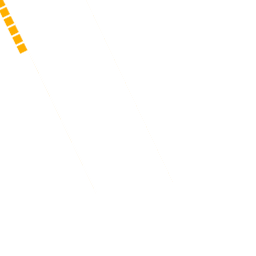
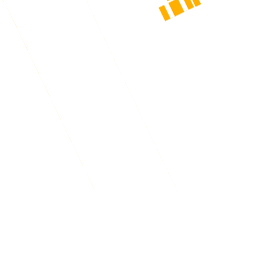
обновил тайлы карты, добавил пункты в левое меню (инстаграм + разработчики), пофиксил баги в уведомлениях и новостях

Changed region(s): [[0.0, 0.0, 0.125, 0.2188], [0.625, 0.0, 0.7812, 0.0938]]

diff --git a/src/assets/js/svg.js b/src/assets/js/svg.js
@@ -472,6 +472,73 @@
     '-.5-1-1-1zM26.5 40.2h-8.8c-.6 0-1 .4-1 1s.4 1 1 1h8.8c.6 0 1-.4 1-1s-.5-1-1-1z"/><path d="M12.7.4L8 6.2l-2-2c-.4-.4-1'+
     '-.4-1.4 0-.4.4-.4 1 0 1.4l2.8 2.8c.2.2.4.3.7.3h.1c.3 0 .5-.1.7-.4l5.4-6.7c.3-.4.3-1.1-.1-1.4-.5-.3-1.1-.3-1.5.2z"/></'+
     'g></symbol>'+
+    '<symbol viewBox="0 0 358.3 186" id="icon_ugraweb"><circ'+
+    'le fill="#059146" cx="265.3" cy="93" r="93"/><g fill="#FFF"><path d="M15.9 51.7c.4.2.6.4.6.8 0 .3-.1.9-.4 1.5-.2.3-.3'+
+    '.6-.5.8-.2.2-.3.3-.5.4-.2.1-.3.1-.5.1s-.3-.1-.5-.2L.8 48.3c-.3-.1-.5-.3-.6-.5-.1-.3-.2-.6-.2-1.1s.1-.8.2-1.1c.1-.2.3-'+
+    '.4.6-.5l13.4-6.9c.2-.1.3-.1.5-.2.2 0 .3 0 .5.1.1.1.3.2.5.4s.3.5.5.8c.3.7.5 1.2.4 1.5 0 .3-.3.6-.6.8l-10 5 9.9 5.1zM53'+
+    '.7 57.2c-1.1 0-2.1-.2-2.8-.5-.8-.4-1.4-.9-1.8-1.5-.5-.7-.8-1.5-1.1-2.4-.2-.9-.4-2-.5-3.2h-1.6v7.1h-4.2V39.1h4.2v6.6h1'+
+    '.6c.1-1.1.3-2.1.6-3 .3-.9.6-1.6 1.1-2.2.5-.6 1.1-1.1 1.8-1.4.7-.3 1.6-.5 2.7-.5 1.2 0 2.3.2 3.1.7.8.4 1.4 1.1 1.9 1.9'+
+    '.5.8.8 1.8 1 2.9s.3 2.4.3 3.8c0 1.5-.1 2.8-.3 3.9-.2 1.1-.6 2.1-1.1 2.9s-1.1 1.4-1.9 1.8c-.8.5-1.8.7-3 .7m-2.2-9.3c0 '+
+    '1.7.2 3 .5 4 .3.9.9 1.4 1.8 1.4.7 0 1.2-.4 1.5-1.2.3-.8.4-2.2.4-4.2 0-1.8-.1-3.2-.4-4.1-.3-.9-.8-1.3-1.7-1.3-.7 0-1.3'+
+    '.4-1.6 1.2-.3.8-.5 2.2-.5 4.2M63.2 52.8h2.4V43h-2.4v-3.9h16.9v7h-3.9V43h-5.9v9.8h5.9v3.9h-13zM83.4 47.9c0-1.5.2-2.8.7'+
+    '-3.9.4-1.1 1.1-2.1 1.9-2.9.8-.8 1.8-1.4 2.9-1.8 1.1-.4 2.4-.6 3.8-.6 1.5 0 2.8.2 4 .7 1.2.4 2.1 1.1 2.9 1.9.8.8 1.4 1'+
+    '.8 1.8 2.9.4 1.1.6 2.4.6 3.8 0 1.5-.2 2.8-.7 3.9s-1.1 2.1-1.9 2.9-1.8 1.4-2.9 1.8c-1.1.4-2.4.6-3.8.6-1.5 0-2.8-.2-4-.'+
+    '7-1.2-.4-2.1-1.1-2.9-1.9-.8-.8-1.4-1.8-1.8-2.9-.4-1.2-.6-2.4-.6-3.8m4.8 0c0 .8.1 1.5.3 2.1.2.7.5 1.2.9 1.7s.9.9 1.4 1'+
+    '.1c.6.3 1.2.4 1.9.4 1.4 0 2.5-.4 3.3-1.3.9-.9 1.3-2.2 1.3-4.1 0-1.6-.4-2.9-1.2-3.9-.8-1-1.9-1.5-3.4-1.5-.7 0-1.3.1-1.'+
+    '8.3s-1 .5-1.5 1c-.4.4-.7 1-1 1.7-.1.7-.2 1.5-.2 2.5M103.3 39.1h6l.5 2.1h.1c1.2-1.7 3.2-2.6 5.9-2.6 1.1 0 2.1.2 3 .5.9'+
+    '.3 1.7.9 2.3 1.6.6.7 1.1 1.6 1.5 2.7.3 1.1.5 2.4.5 4 0 1.5-.2 2.8-.6 4.1-.4 1.2-1 2.2-1.7 3.1-.7.8-1.7 1.5-2.7 1.9-1.'+
+    '1.4-2.3.7-3.7.7-.7 0-1.4-.1-2.1-.2-.7-.1-1.3-.3-1.8-.5v7.2h-4.6V43h-2.6v-3.9zm11.2 3.4c-.9 0-1.7.2-2.4.7-.7.4-1.2 1.1'+
+    '-1.5 2v7.3c.3.3.8.5 1.4.6.6.2 1.2.2 1.9.2s1.3-.1 1.8-.3c.6-.2 1.1-.6 1.5-1.1.4-.5.8-1.1 1-1.9.2-.7.4-1.7.4-2.7 0-1.5-'+
+    '.4-2.7-1.1-3.6-.9-.8-1.9-1.2-3-1.2M143.5 55c-1 .7-2.1 1.3-3.4 1.6-1.3.4-2.6.5-4 .5-1.5 0-2.9-.2-4.1-.7-1.2-.4-2.2-1.1'+
+    '-3-1.9-.8-.8-1.4-1.8-1.8-2.9-.4-1.1-.6-2.4-.6-3.8 0-1.5.2-2.8.7-3.9.5-1.1 1.2-2.1 2.1-2.9s1.9-1.4 3.1-1.8c1.2-.4 2.5-'+
+    '.6 3.9-.6 1.3 0 2.5.2 3.7.5 1.1.3 2 .6 2.6.9v6.2h-3.9V43c-.7-.2-1.5-.2-2.2-.2-.7 0-1.3.1-1.9.3-.6.2-1.2.5-1.7.9s-.9 1'+
+    '-1.2 1.6c-.3.7-.5 1.4-.5 2.4 0 .7.1 1.4.4 2.1.3.6.6 1.2 1.1 1.7.5.5 1 .8 1.7 1.1.7.3 1.5.4 2.3.4 1.3 0 2.4-.2 3.3-.6s'+
+    '1.5-.7 1.9-1l1.5 3.3zM155 49.8h-2.3v6.9h-4.6V39.1h4.6v7.1h1.8l5.8-7.1h5.2l-7 8.2 4.3 5.5h3.1v3.9h-5.3zM180.7 48.7l.2-'+
+    '2.5h-.1l-8.5 10.5h-3.5V39.1h4.5v8.4l-.2 2.4h.2l8.4-10.8h3.6v17.6h-4.6zM206.3 54.8c-.3.3-.7.6-1.2.8-.5.3-1 .5-1.7.8s-1'+
+    '.4.4-2.1.6c-.8.1-1.6.2-2.5.2-1.5 0-2.8-.2-4-.6-1.2-.4-2.2-1-3-1.8-.8-.8-1.4-1.8-1.9-2.9-.4-1.1-.6-2.4-.6-3.9s.2-2.9.7'+
+    '-4.1c.5-1.2 1.2-2.1 2-2.9.9-.8 1.9-1.4 3-1.7 1.1-.4 2.4-.6 3.7-.6.9 0 1.8.1 2.8.4.9.2 1.8.6 2.6 1.2s1.4 1.3 1.9 2.3c.'+
+    '5 1 .8 2.2.8 3.7 0 1-.1 2.1-.4 3.3h-12.6c0 .7.2 1.4.5 1.9s.7.9 1.2 1.3c.5.3 1 .6 1.7.7.6.2 1.3.2 2 .2 1.4 0 2.6-.2 3.'+
+    '5-.5.9-.3 1.6-.7 2.2-1.2l1.4 2.8zm-7.5-12.5c-.6 0-1.2.1-1.7.3-.5.2-1 .4-1.5.7-.4.3-.8.7-1.1 1.2s-.4 1-.5 1.6h8.6c0-1.'+
+    '2-.3-2.1-1-2.8-.5-.7-1.5-1-2.8-1M117.5 90.8l.2-2.5h-.2l-8.4 10.5h-3.6V81.3h4.6v8.3l-.2 2.4h.1l8.5-10.7h3.5v17.5h-4.5z'+
+    'M138.6 91.9h-7.5v6.9h-4.5V81.3h4.5v6.6h7.5v-6.6h4.6v17.5h-4.6zM149 95h4.6v-9.7h-2.8v3h-3.9v-7H165v7h-3.9v-3h-2.8V95h4'+
+    '.6v3.8H149zM185.2 97c-.3.3-.7.6-1.2.8-.5.3-1 .5-1.7.8-.6.2-1.4.4-2.1.6-.8.1-1.6.2-2.5.2-1.5 0-2.8-.2-4-.6-1.2-.4-2.2-'+
+    '1-3-1.8-.8-.8-1.4-1.8-1.9-2.9-.4-1.1-.6-2.4-.6-3.9s.2-2.9.7-4.1c.5-1.2 1.2-2.1 2-2.9.9-.8 1.9-1.4 3-1.7 1.1-.4 2.4-.6'+
+    ' 3.7-.6.9 0 1.8.1 2.8.4.9.2 1.8.6 2.6 1.2s1.4 1.3 1.9 2.3c.5 1 .8 2.2.8 3.7 0 1-.1 2.1-.4 3.3h-12.6c0 .7.2 1.4.5 1.9s'+
+    '.7.9 1.2 1.3c.5.3 1 .6 1.7.7.6.2 1.3.2 2 .2 1.4 0 2.6-.2 3.5-.5.9-.3 1.6-.7 2.2-1.2l1.4 2.8zm-7.6-12.6c-.6 0-1.2.1-1.'+
+    '7.3-.5.2-1 .4-1.5.7-.4.3-.8.7-1.1 1.2-.3.5-.4 1-.5 1.6h8.6c0-1.2-.3-2.1-1-2.8-.5-.6-1.4-1-2.8-1M187.5 81.3h6l.5 2.1h.'+
+    '1c1.2-1.7 3.2-2.6 5.9-2.6 1.1 0 2.1.2 3 .5.9.3 1.7.9 2.3 1.6.6.7 1.1 1.6 1.5 2.7.3 1.1.5 2.4.5 4 0 1.5-.2 2.8-.6 4.1-'+
+    '.4 1.2-1 2.2-1.7 3.1-.8.8-1.7 1.5-2.7 1.9s-2.3.7-3.7.7c-.7 0-1.4-.1-2.1-.2-.7-.1-1.3-.3-1.8-.5v7.2h-4.6V85.1h-2.6v-3.'+
+    '8zm11.2 3.3c-.9 0-1.7.2-2.4.7-.7.4-1.2 1.1-1.5 2v7.3c.3.3.8.5 1.4.6.6.2 1.2.2 1.9.2s1.3-.1 1.8-.3c.6-.2 1.1-.6 1.5-1.'+
+    '1.4-.5.7-1.1 1-1.9.2-.7.4-1.7.4-2.7 0-1.5-.4-2.7-1.1-3.6-.9-.7-1.8-1.2-3-1.2M222.9 91.9h-7.5v6.9h-4.5V81.3h4.5v6.6h7.'+
+    '5v-6.6h4.6v17.5h-4.6zM248.5 97c-.3.3-.7.6-1.2.8-.5.3-1 .5-1.7.8-.6.2-1.4.4-2.1.6-.8.1-1.6.2-2.5.2-1.5 0-2.8-.2-4-.6-1'+
+    '.2-.4-2.2-1-3-1.8-.8-.8-1.4-1.8-1.9-2.9-.4-1.1-.6-2.4-.6-3.9s.2-2.9.7-4.1c.5-1.2 1.2-2.1 2-2.9.9-.8 1.9-1.4 3-1.7 1.1'+
+    '-.4 2.4-.6 3.7-.6.9 0 1.8.1 2.8.4.9.2 1.8.6 2.6 1.2s1.4 1.3 1.9 2.3c.5 1 .8 2.2.8 3.7 0 1-.1 2.1-.4 3.3H236c0 .7.2 1.'+
+    '4.5 1.9s.7.9 1.2 1.3c.5.3 1 .6 1.7.7.6.2 1.3.2 2 .2 1.4 0 2.6-.2 3.5-.5.9-.3 1.6-.7 2.2-1.2l1.4 2.8zm-7.6-12.6c-.6 0-'+
+    '1.2.1-1.7.3-.5.2-1 .4-1.5.7-.4.3-.8.7-1.1 1.2-.3.5-.4 1-.5 1.6h8.6c0-1.2-.3-2.1-1-2.8-.5-.6-1.5-1-2.8-1M254.4 95h4.6v'+
+    '-9.7h-2.8v3h-3.9v-7h18v7h-3.8v-3h-2.8V95h4.5v3.8h-13.8zM103.2 123.4h6l.5 2.1h.1c1.2-1.7 3.2-2.6 5.9-2.6 1.1 0 2.1.2 3'+
+    ' .5.9.3 1.7.9 2.3 1.6.6.7 1.1 1.6 1.5 2.7.3 1.1.5 2.4.5 4 0 1.5-.2 2.8-.6 4.1-.4 1.2-1 2.2-1.7 3.1-.7.8-1.7 1.5-2.7 1'+
+    '.9-1.1.4-2.3.7-3.7.7-.7 0-1.4-.1-2.1-.2-.7-.1-1.3-.3-1.8-.5v7.2h-4.6v-20.7h-2.6v-3.9zm11.2 3.4c-.9 0-1.7.2-2.4.7s-1.2'+
+    ' 1.1-1.5 2v7.3c.3.3.8.5 1.4.6.6.2 1.2.2 1.9.2s1.3-.1 1.8-.3c.6-.2 1.1-.6 1.5-1.1.4-.5.8-1.1 1-1.9.2-.7.4-1.7.4-2.7 0-'+
+    '1.5-.4-2.7-1.1-3.6-.9-.8-1.8-1.2-3-1.2M143.1 139.1c-.3.3-.7.6-1.2.8-.5.3-1 .5-1.7.8s-1.4.4-2.1.6c-.8.1-1.6.2-2.5.2-1.'+
+    '5 0-2.8-.2-4-.6-1.2-.4-2.2-1-3-1.8-.8-.8-1.4-1.8-1.9-2.9s-.6-2.4-.6-3.9.2-2.9.7-4.1c.5-1.2 1.2-2.1 2-2.9.9-.8 1.9-1.4'+
+    ' 3-1.7 1.1-.4 2.4-.6 3.7-.6.9 0 1.8.1 2.8.4.9.2 1.8.6 2.6 1.2s1.4 1.3 1.9 2.3c.5 1 .8 2.2.8 3.7 0 1-.1 2.1-.4 3.3h-12'+
+    '.6c0 .7.2 1.4.5 1.9s.7.9 1.2 1.3c.5.3 1 .6 1.7.7.6.2 1.3.2 2 .2 1.4 0 2.6-.2 3.5-.5.9-.3 1.6-.7 2.2-1.2l1.4 2.8zm-7.6'+
+    '-12.5c-.6 0-1.2.1-1.7.3-.5.2-1 .4-1.5.7-.4.3-.8.7-1.1 1.2-.3.5-.4 1-.5 1.6h8.6c0-1.2-.3-2.1-1-2.8-.5-.7-1.5-1-2.8-1M1'+
+    '46.5 141v-17.6h4.2v13.5h3.1v-13.5h4.2v13.5h3.2v-13.5h4.2V141zM185.2 139.1c-.3.3-.7.6-1.2.8-.5.3-1 .5-1.7.8-.6.2-1.4.4'+
+    '-2.1.6-.8.1-1.6.2-2.5.2-1.5 0-2.8-.2-4-.6-1.2-.4-2.2-1-3-1.8-.8-.8-1.4-1.8-1.9-2.9-.4-1.1-.6-2.4-.6-3.9s.2-2.9.7-4.1c'+
+    '.5-1.2 1.2-2.1 2-2.9.9-.8 1.9-1.4 3-1.7 1.1-.4 2.4-.6 3.7-.6.9 0 1.8.1 2.8.4.9.2 1.8.6 2.6 1.2s1.4 1.3 1.9 2.3c.5 1 .'+
+    '8 2.2.8 3.7 0 1-.1 2.1-.4 3.3h-12.6c0 .7.2 1.4.5 1.9s.7.9 1.2 1.3c.5.3 1 .6 1.7.7.6.2 1.3.2 2 .2 1.4 0 2.6-.2 3.5-.5.'+
+    '9-.3 1.6-.7 2.2-1.2l1.4 2.8zm-7.6-12.5c-.6 0-1.2.1-1.7.3-.5.2-1 .4-1.5.7-.4.3-.8.7-1.1 1.2-.3.5-.4 1-.5 1.6h8.6c0-1.2'+
+    '-.3-2.1-1-2.8-.5-.7-1.4-1-2.8-1M201.8 134.1h-7.4v6.9h-4.6v-17.6h4.6v6.6h7.4v-6.6h4.6V141h-4.6zM222.9 133l.1-2.5h-.1l-'+
+    '8.4 10.5h-3.6v-17.6h4.5v8.4l-.2 2.4h.2l8.4-10.8h3.6V141h-4.5zM231.3 137.1h2.6l1.7-2.6c-1.2-.4-2.1-1.1-2.7-2-.6-.9-.8-'+
+    '2-.8-3.4 0-2.1.8-3.7 2.5-4.7 1.6-1 3.9-1.5 6.9-1.5.6 0 1.2 0 1.8.1.6 0 1.3.1 1.9.1.6 0 1.2.1 1.7.2s1 .1 1.3.2V141h-4.'+
+    '6v-6h-3.4l-3.7 5.9h-5.2v-3.8zm12.3-5.4V127c-.1 0-.3-.1-.6-.1s-.5-.1-.8-.1h-1.4c-.5 0-1 .1-1.5.2s-.9.3-1.3.5-.7.5-.9.8'+
+    'c-.2.3-.3.7-.3 1.2 0 .4.1.8.3 1.1.2.3.5.5.8.7.4.2.8.3 1.3.4.5.1 1.1.1 1.7.1h2.7zM278.6 145.6c-.1.2-.3.3-.5.4-.2.1-.5.'+
+    '1-.8.1-.3 0-.7 0-1-.1-.4-.1-.7-.2-.9-.4-.3-.2-.5-.4-.6-.6-.1-.2-.1-.5 0-.8l11.4-25.5c.1-.2.3-.3.5-.4.2-.1.5-.1.8-.1.3'+
+    ' 0 .7 0 1 .1.3.1.7.2.9.4.3.2.5.4.6.6.1.2.1.5 0 .8l-11.4 25.5zM317.1 126c-.4-.2-.6-.4-.6-.8 0-.3.1-.9.4-1.5.2-.3.3-.6.'+
+    '5-.8.2-.2.3-.3.5-.4.1-.1.3-.1.5-.1s.3.1.5.2l13.4 6.9c.3.1.5.3.6.5.1.2.2.6.2 1.1 0 .5-.1.8-.2 1.1-.1.2-.3.4-.6.5l-13.4'+
+    ' 6.9c-.2.1-.3.1-.5.2-.2 0-.3 0-.5-.1s-.3-.2-.5-.4-.3-.5-.5-.8c-.3-.7-.5-1.2-.4-1.5 0-.3.3-.6.6-.8l10-5-10-5.2z"/></g>'+
+    '</symbol>'+
     '</svg>';
 
   var svg = document.getElementById('svg-icons');

diff --git a/src/assets/css/common.css b/src/assets/css/common.css
@@ -265,6 +265,8 @@ input:-ms-input-placeholder {
 .b-button_color_add {
   background: #f8ae19;
   border-color: #f8ae19;
+  padding-left: 20px;
+  padding-right: 20px;
 }
 .b-button_color_cancel {
   background: #f75757;
@@ -542,6 +544,8 @@ input:-ms-input-placeholder {
   margin: 0;
   padding: 0;
   list-style-type: none;
+  position: relative;
+  height: 100%;
 }
 .b-main-nav__item {
   margin: 0;
@@ -550,6 +554,10 @@ input:-ms-input-placeholder {
 }
 .b-main-nav__item.is-active .b-main-nav__act {
   background: #2fa5d9;
+}
+.b-main-nav__item:last-child {
+  position: absolute;
+  bottom: 0;
 }
 .b-main-nav__act {
   display: block;
@@ -2278,7 +2286,7 @@ input:-ms-input-placeholder {
 }
 
 .content-block-inner {
-  padding: 14px 14px 0 14px;
+  padding: 14px;
   background: none;
 }
 .content-block-inner:after, .content-block-inner:before {
@@ -2378,4 +2386,7 @@ input:-ms-input-placeholder {
   -webkit-align-content: stretch;
       -ms-flex-line-pack: stretch;
           align-content: stretch;
+}
+.panel-left {
+  padding: 45px 0 10px;
 }

diff --git a/src/js/views/main/menu.js b/src/js/views/main/menu.js
@@ -1,5 +1,6 @@
 'use strict';
 
+import _item from './templates/menu-item.jade';
 import items from './menu.json';
 import {SimpleLink} from '../ui/list';
 
@@ -9,7 +10,8 @@ class MenuItem extends Backbone.Model {
   get defaults() {
     return {
       name: '',
-      link: ''
+      link: '',
+      external: false
     };
   }
 }
@@ -20,7 +22,6 @@ class Menu extends Backbone.Collection {
   }
 }
 
-let _item ='<a href="<%= href %>" class="item-link close-panel b-main-nav__act"><%= name %></a>';
 class MenuLink extends SimpleLink {
   get className() {
     return 'b-main-nav__lst';
@@ -57,7 +58,7 @@ class Panel extends Backbone.View {
       }
     });
 
-    this.$content.html( view.render().$el );
+    this.$el.html( view.render().$el );
     return this;
   }
 }

diff --git a/src/assets/css/style.css b/src/assets/css/style.css
@@ -77,3 +77,32 @@
 .statusbar-overlay {
   background: #31b5e8;
 }
+.view-main[data-page="developers"] .navbar,
+.page[data-page="developers"] {
+  background: #212121;
+  color: #fff;
+}
+.developers-icon {
+  width: 56.25%;
+  margin: 0 auto;
+}
+.developers {
+  height: 100%;
+  display: flex;
+  flex-direction: column;
+  justify-content: space-between;
+  text-align: center;
+}
+.developers__icon {
+  max-width: 100%;
+}
+.developers__http {
+  color: #059146;
+}
+.developers__link {
+  color: #fff;
+  text-decoration: none;
+}
+.developers-text {
+  margin-top: -55px;
+}

diff --git a/src/js/views/map/page.js b/src/js/views/map/page.js
@@ -99,6 +99,12 @@ class Page extends Backbone.View {
             iconContent: item.name,
             balloonContent: item.text
           }
+        }, {
+          // Метку можно перемещать.
+          draggable: true
+        });
+        object.events.add('dragend', function (e) {
+          console.log(e.originalEvent.target.geometry.getCoordinates());
         });
         objects.add(object);
       });

diff --git a/gulpfile.babel.js b/gulpfile.babel.js
@@ -24,8 +24,8 @@ const plumberOptions = {
   errorHandler: notify.onError()
 };
 
-let apiUrl = 'http://api.utro2016.ru';
-// let apiUrl = 'http://utro2016.probitrix.com/local/api';
+// let apiUrl = 'http://api.utro2016.ru';
+let apiUrl = 'http://utro2016.probitrix.com/local/api';
 let path = 'build';
 
 let isDev = () => path === 'build';

diff --git a/src/js/views/ui/list.js b/src/js/views/ui/list.js
@@ -86,6 +86,7 @@ class SimpleLink extends Simple {
         let params = this.model.toJSON();
         params.href = self.href(this.model);
         this.$el.html( this.template( params ) );
+        this.afterRender();
         return this;
       }
     };

diff --git a/src/js/models/news-item.js b/src/js/models/news-item.js
@@ -19,7 +19,7 @@ let NewsItem = Backbone.Model.extend({
   syncMap: {
     NAME: 'name',
     ID: 'id',
-    DATE_CREATE: 'date',
+    ACTIVE_FROM: 'date',
     TIMESTAMP_X: 'timestamp',
     DETAIL_TEXT: 'text',
     DETAIL_TEXT_TYPE: 'type',

diff --git a/src/js/collections/news.js b/src/js/collections/news.js
@@ -6,7 +6,7 @@ let News = Backbone.Collection.extend({
   url: '/news',
   model: NewsItem,
   comparator: function (model) {
-    return model.get('sort');
+    return -model.get('date');
   },
   sync: Backbone.localforage.sync('news')
 });

diff --git a/src/js/views/notify/page.js b/src/js/views/notify/page.js
@@ -79,7 +79,7 @@ class Page extends PullDown {
 
     let list = new List({
       el: this.$list,
-      collection: this.collection
+      collection: notify
     });
 
     this.$empty.hide();

diff --git a/src/js/controller/developers.js b/src/js/controller/developers.js
@@ -1,0 +1,3 @@
+'use strict';
+
+module.exports = () => {};
